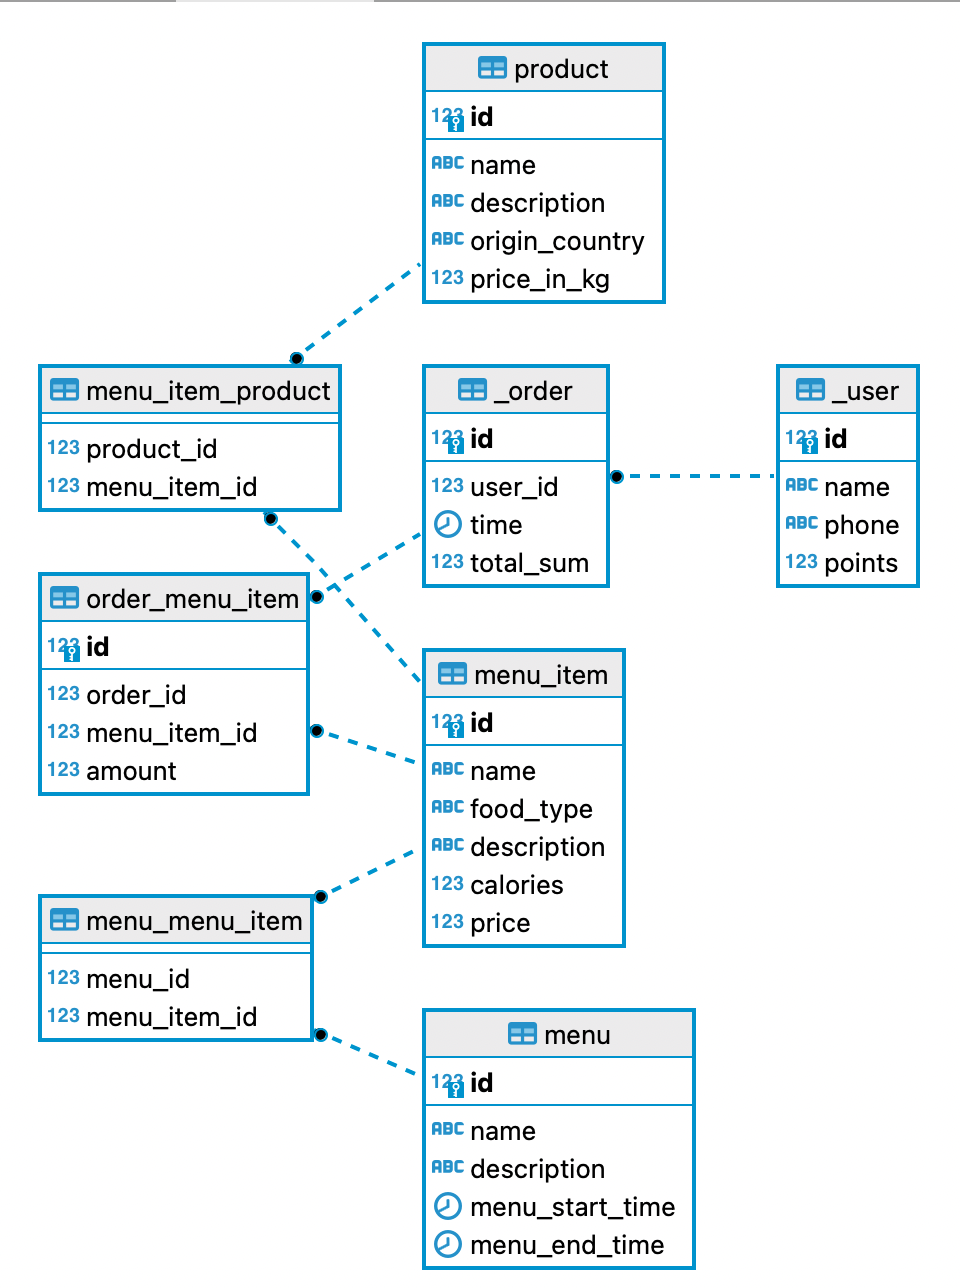
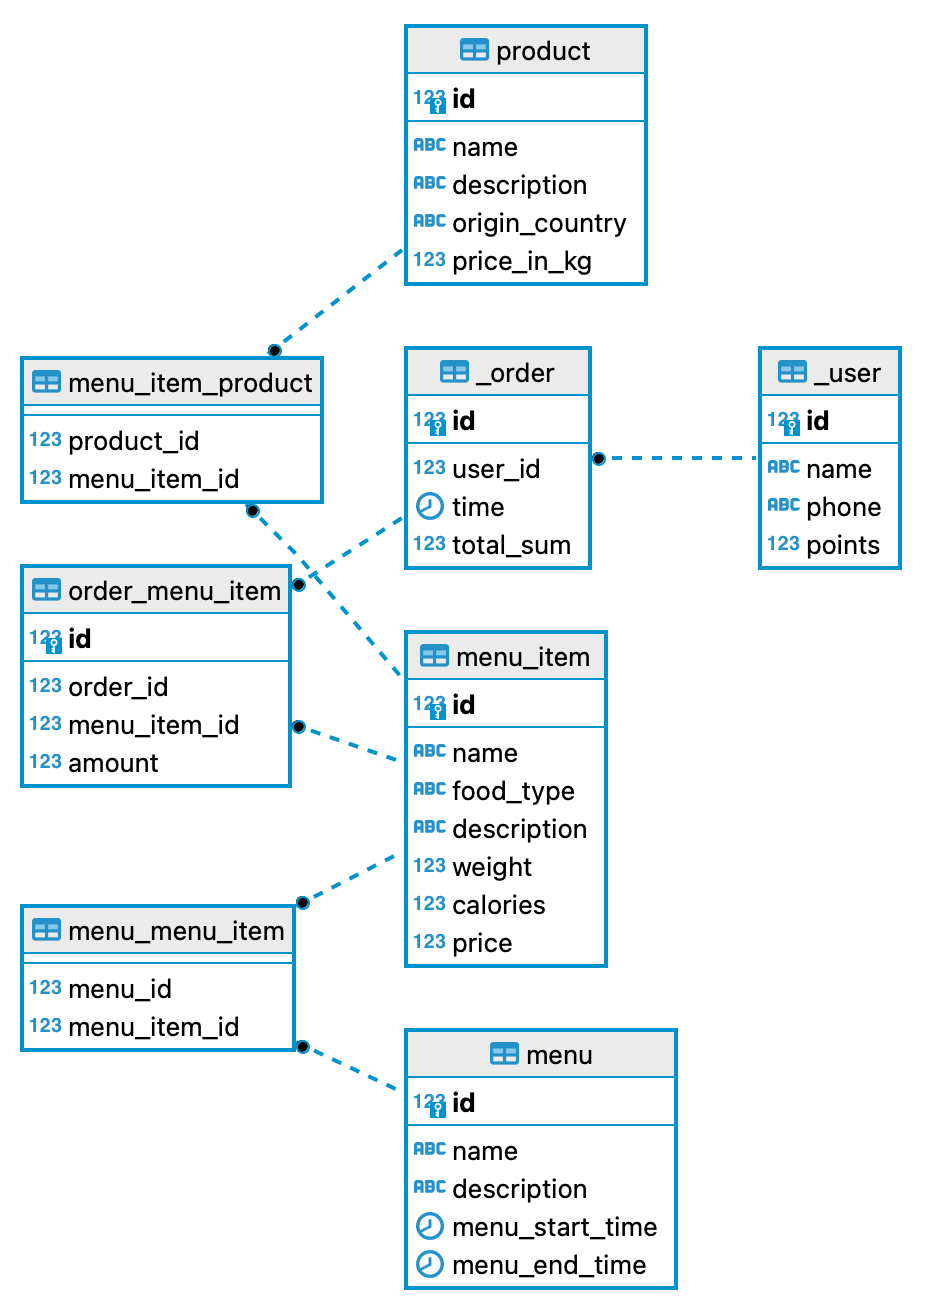
modified structure of database

diff --git a/README.md b/README.md
@@ -48,8 +48,9 @@ Enum food_type (сoffee, dessert)
 | ----------- | --------------------- | ------------------------- |
 | menuItem_id | SERIAL NOT NULL       | PrimaryKey                |
 | name        | VARCHAR(50) NOT NULL  |                           |
-| food_type   | ENUM foodtype         |
+| food_type   | ENUM food_type        |                           |
 | description | VARCHAR(300) NOT NULL |                           |
+| weight      | INT >0, NOT NULL      |
 | calories    | INT > 0, NOT NULL     |                           |
 | price       | INT > 0, NOT NULL     |                           |
 
